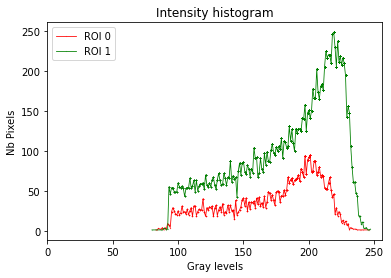
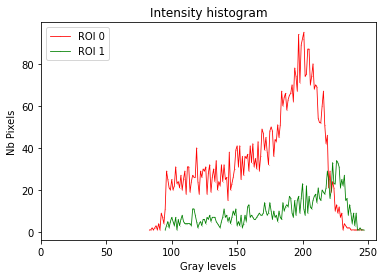
Optimizaed CV_report code

diff --git a/Code/CV_report.py b/Code/CV_report.py
@@ -3,47 +3,30 @@
 """
 Created on Wed Jan 26 14:23:09 2022
 
-@author: bottimacintosh
+@author:YoussefAyachi
 """
 
 import numpy as np
 import matplotlib.pyplot as plt
 import pandas as pd
-
-import matplotlib.patches as mpatches
-
-from skimage import data
 from skimage.filters import threshold_otsu
 from skimage.segmentation import clear_border
-from skimage.measure import label, regionprops
 from skimage.morphology import closing, square
-
-# pip install aicsimageio
-# pip install 'Pillow==8.0.1' #aicsimageio need specific version of PIL
 from PIL import Image
-from aicsimageio import AICSImage, imread_dask
-from aicsimageio import TiffGlobReader
-from aicsimageio import readers
-#pip install 'aicsimageio[base-imageio]'
-from collections import Counter
-
-from skimage.filters import threshold_otsu
-import math
-
 import cv2
 
 """
 Paths for execution
 """
-path0="/Users/bottimacintosh/Downloads/pup3.tif"
-path11="/Users/Youssef/Documents/IBDML/Data/homogeneity/lame/homogeneite10zoom1-488.tif"
-path1="/Users/Youssef/Documents/IBDML/Data/CV/cv.comparatif.tif"
-pathCV="/Users/bottimacintosh/Documents/M2_CMB/IBDML/Data/CV/cv.comparatif.tif"
-path_dir="/Users/bottimacintosh/Desktop/test1.png"
+
+
+path11 = "/Users/Youssef/Documents/IBDML/Data/homogeneity/lame/homogeneite10zoom1-488.tif"
+path1 = "/Users/Youssef/Documents/IBDML/Data/CV/cv.comparatif.tif"
+
 
 """
 CV report:
-- Get sample names and add them to the images with roi: in progress. 
+- Get sample names and add them to the images with roi: in progress.
 """
 
 # 1. Import .tiff containing the acquisitions made with the PMTs to analyze
@@ -101,6 +84,7 @@ def get_roi_default(tiff_data):
 
     ROI_info = {}
     ROI_img = []
+    ROI_data = []
     ROI_nb_pixels_list = []
     ROI_start_pixel_list = []
     ROI_end_pixel_list = []
@@ -114,31 +98,29 @@ def get_roi_default(tiff_data):
         startx, endx = int(x//2 - h//2), int(x//2 + h//2)
         starty, endy = int(y//2 - w//2), int(y//2 + w//2)
 
-        ROI_data = tiff_data[i][startx:endx, starty:endy]
+        ROI_data_temp = tiff_data[i][startx:endx, starty:endy]
         ROI_start_pixel = [startx, starty]
         ROI_end_pixel = [endx, endy]
 
-        ROI_nb_pixels = ROI_data.shape
+        ROI_nb_pixels = ROI_data_temp.shape
 
         ROI_nb_pixels_list.append(ROI_nb_pixels)
         ROI_start_pixel_list.append(ROI_start_pixel)
         ROI_end_pixel_list.append(ROI_end_pixel)
         ROI_Original_ratio_list.append("20%")
 
-        ROI_img.append(Image.fromarray(ROI_data))
+        ROI_img.append(Image.fromarray(ROI_data_temp))
 
-    # 3 outputs :
+        ROI_data.append(ROI_data_temp)
 
-    # 1. dict enclosing info about the ROI
+    # dict enclosing info about the ROI
     ROI_info["ROI_nb_pixels"] = ROI_nb_pixels_list
     ROI_info["ROI_start_pixel"] = ROI_start_pixel_list
     ROI_info["ROI_end_pixel"] = ROI_end_pixel_list
     ROI_info["ROI_Original_ratio"] = ROI_Original_ratio_list
     ROI_info = pd.DataFrame(ROI_info)
 
-    # 2. ROI images: ROI_img
-
-    return [ROI_info, ROI_img]
+    return [ROI_info, ROI_img, ROI_data]
 
 
 # ex1: one image in tiff file
@@ -151,11 +133,14 @@ img = get_images_from_multi_tiff(path1)
 get_roi_default(img)[0]  # df
 get_roi_default(img)[1][0]
 get_roi_default(img)[1][1]  # image
+get_roi_default(img)[1][1]  # image
+get_roi_default(img)[2][0]  # matrix 1
+get_roi_default(img)[2][0]  # matrix 2
 
 # 3. Compute CV
 
 
-def get_segmented_image(img):
+def get_segmented_image(imge):
     """
     Given a 2D np.array, it replaces all the pixels with an intensity below
     a threshold by 0 as well as artifacts connected to image border.
@@ -173,17 +158,17 @@ def get_segmented_image(img):
 
     """
     # apply threshold
-    thresh = threshold_otsu(img)
-    bw = closing(img > thresh, square(3))
+    thresh = threshold_otsu(imge)
+    bw = closing(imge > thresh, square(3))
 
     # remove artifacts connected to image border
     cleared = clear_border(bw)
-    xtot, ytot = np.shape(img)
+    xtot, ytot = np.shape(imge)
     for i in range(xtot):
         for j in range(ytot):
-            if cleared[i, j] is False:
-                img[i, j] = 0
-    return img
+            if not cleared[i, j]:
+                imge[i, j] = 0
+    return imge
 
 
 # ex:
@@ -410,32 +395,23 @@ def get_hist_data(img):
 
     """
 
-    roi_data = [img]
-    roi_info = get_roi_default(roi_data)[0]
-
-    x0, y0 = roi_info["ROI_start_pixel"][0]
-    xf, yf = roi_info["ROI_end_pixel"][0]
-
     # convert matrix to one vector
-    img_seg = get_segmented_image(roi_data[0])
-    ball_intensity_vec = np.ndarray.tolist(
-        get_non_zero_vec_from_seg_image(img_seg)
-        )
-    ball_intensity_vec.sort()
+    ball_intensity_vec = get_segmented_image(img)
+    ball_intensity_vec.flatten()
+    ball_intensity_vec = ball_intensity_vec[ball_intensity_vec != 0]
+    np.ndarray.sort(ball_intensity_vec)
 
     # build a dataframe
-    count_list = [ball_intensity_vec.count(i) for i in ball_intensity_vec]  # to optimize
-    # counter_dict = Counter(ball_intensity_vec)
-    # grey_intensity = counter_dict.keys()
-    # nb_pixels = counter_dict.values()
-    hist_data = np.array([[ball_intensity_vec, count_list]])
+    intensity_value, nb_pixel = np.unique(ball_intensity_vec,
+                                          return_counts=True)
+    hist_data = np.array([[intensity_value, nb_pixel]])
 
     return hist_data
 
 
 # ex:
-img = get_images_from_multi_tiff(path1)[0]
-get_hist_data(img)
+img = get_roi_default(get_images_from_multi_tiff(path1))[2]
+get_hist_data(img[0])
 
 
 def get_hist_nbpixel_vs_grayintensity(tiff_data):
@@ -457,8 +433,9 @@ def get_hist_nbpixel_vs_grayintensity(tiff_data):
     fig = plt.figure()
     colors = ["r", "g", "b", "c", "m", "y", "k", "w"]
 
-    for i in range(len(tiff_data)):
-        hist_data = get_hist_data(tiff_data[i])
+    roi_list = get_roi_default(tiff_data)[2]
+    for i in range(len(roi_list)):
+        hist_data = get_hist_data(roi_list[i])
         plt.plot(hist_data[0][0], hist_data[0][1],
                  marker=".", markersize=0.2,  color=colors[i],
                  label="ROI " + str(i), linewidth=0.8, figure=fig)
